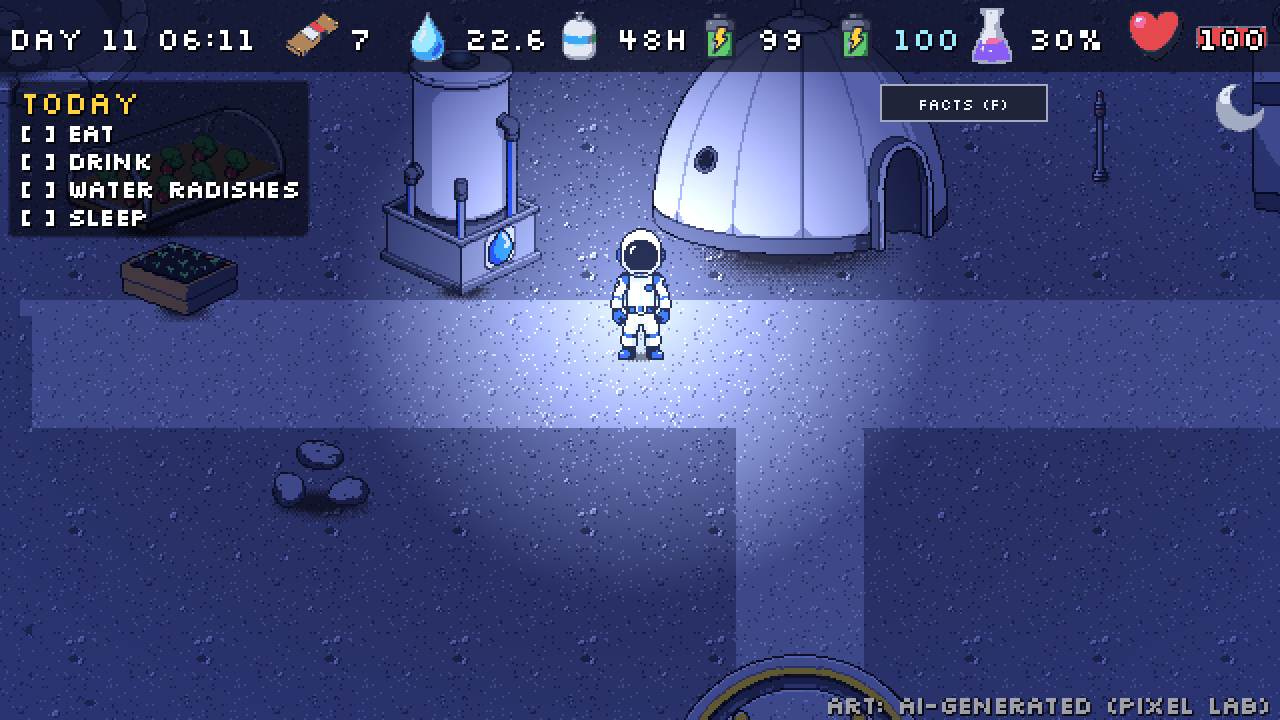
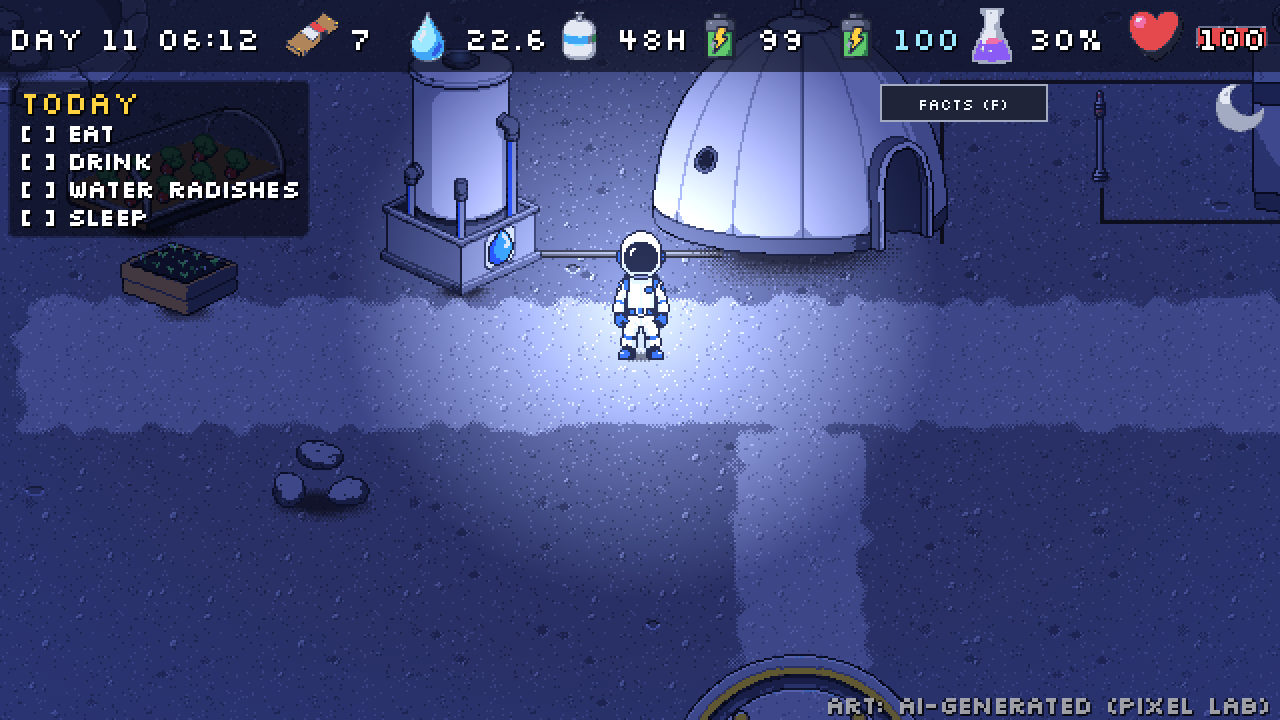
POLISH 3: baked natural ground (noise tiles, dithered paths, pebbles, craters, tracks, cables, pipe), boot prints; sun shadow length capped and shared layer

diff --git a/tools/make_ground.py b/tools/make_ground.py
@@ -1,0 +1,181 @@
+# AI-assisted code (Claude Code), reviewed by the team, NASA Space Apps Cairo 2026
+# Bakes the whole Outpost ground into ONE image: assets_derived/ground_outpost.png (1280x960, 1:1 pixels).
+#   - ground_1..3 mixed by a fixed-seed noise map (no visible tiling), speckle contrast lowered 30%
+#   - packed-regolith paths (path.png) with irregular dithered borders, from the Path* rects in Outpost.tscn
+#   - pebbles, tiny craters, wheel tracks and boot prints near the pad (kept off paths and buildings)
+#   - cables and a pipe: solar field -> charger -> habitat, recycler -> habitat, lab -> antenna
+# polish.gd hides the old ground rectangles and shows this image instead. Never changes assets/.
+# Run:  python tools/make_ground.py   (then godot --headless --path . --import)
+import json, math, os, random, re
+from PIL import Image
+
+ROOT = os.path.dirname(os.path.dirname(os.path.abspath(__file__)))
+W, H = 1280, 960
+SEED = 2026
+CONTRAST = 0.7                  # speckle contrast kept (1.0 = original)
+EXTRA_PATHS = [(950, 200, 1044, 264), (1000, 264, 1044, 440)]   # connector: solar row -> main path (x0, y0, x1, y1)
+BAYER = [0, 8, 2, 10, 12, 4, 14, 6, 3, 11, 1, 9, 15, 7, 13, 5]
+
+
+def load(name):
+    return Image.open(os.path.join(ROOT, "assets/sprites/tiles", name)).convert("RGBA")
+
+
+def soften(im):
+    px = list(im.getdata())
+    n = len(px)
+    mean = [sum(p[i] for p in px) / n for i in range(3)]
+    out = Image.new("RGBA", im.size)
+    out.putdata([tuple(int(mean[i] + (p[i] - mean[i]) * CONTRAST) for i in range(3)) + (255,) for p in px])
+    return out.load()
+
+
+def value_noise(seed, cell):
+    rng = random.Random(seed)
+    gw, gh = W // cell + 2, H // cell + 2
+    g = [[rng.random() for _ in range(gw)] for _ in range(gh)]
+
+    def f(x, y):
+        gx, gy = x / cell, y / cell
+        ix, iy = int(gx), int(gy)
+        tx, ty = gx - ix, gy - iy
+        tx, ty = tx * tx * (3 - 2 * tx), ty * ty * (3 - 2 * ty)
+        a = g[iy][ix] * (1 - tx) + g[iy][ix + 1] * tx
+        b = g[iy + 1][ix] * (1 - tx) + g[iy + 1][ix + 1] * tx
+        return a * (1 - ty) + b * ty
+    return f
+
+
+def scene_info():
+    s = open(os.path.join(ROOT, "scenes/Outpost.tscn"), encoding="utf-8").read()
+    rects = []
+    for m in re.finditer(r'\[node name="(Path\w*)" type="TextureRect" parent="Ground"\]\n(.*?)\n\n', s, re.S):
+        v = {k: float(x) for k, x in re.findall(r'offset_(\w+) = ([-\d.]+)', m.group(2))}
+        rects.append((v["left"], v["top"], v["right"], v["bottom"]))
+    nodes = {}
+    for m in re.finditer(r'\[node name="(\w+)" type="Node2D" parent="World"\]\nposition = Vector2\(([-\d.]+), ([-\d.]+)\)', s):
+        nodes[m.group(1)] = (float(m.group(2)), float(m.group(3)))
+    # sprite texture + offset per node, for "keep details off buildings"
+    blocks = []
+    bases = json.load(open(os.path.join(ROOT, "assets_derived/bases.json")))
+    extids = dict(re.findall(r'path="(res://[^"]+)" id="(\w+)"', s))
+    extids = {v: k for k, v in extids.items()}
+    for m in re.finditer(r'\[node name="Sprite2D" type="Sprite2D" parent="World/(\w+)"\]\ntexture = ExtResource\("(\w+)"\)\ncentered = false\noffset = Vector2\(([-\d.]+), ([-\d.]+)\)', s):
+        nm, tid, ox, oy = m.group(1), m.group(2), float(m.group(3)), float(m.group(4))
+        b = bases.get(extids.get(tid, ""))
+        if nm in nodes and b:
+            x, y = nodes[nm]
+            blocks.append((x + ox + b["bbox_l"] - 6, y + oy + b["top"], x + ox + b["bbox_r"] + 6, y + oy + b["bottom"] + 8))
+    return rects + EXTRA_PATHS, nodes, blocks
+
+
+def main():
+    rects, nodes, blocks = scene_info()
+    tiles = [soften(load(f"ground_{i}.png")) for i in (1, 2, 3)]
+    path = soften(load("path.png"))
+    img = Image.new("RGBA", (W, H))
+    px = img.load()
+    n1, n2 = value_noise(SEED, 96), value_noise(SEED + 1, 40)
+    edge = value_noise(SEED + 2, 9)
+    is_path = [[False] * W for _ in range(H)]
+    for y in range(H):
+        for x in range(W):
+            b = BAYER[(y % 4) * 4 + (x % 4)] / 16.0 - 0.5
+            v = n1(x, y) * 0.7 + n2(x, y) * 0.3 + b * 0.08     # dithered blend between the three ground tiles
+            t = 0 if v < 0.5 else (1 if v < 0.62 else 2)
+            c = tiles[t][x % 64, y % 64]
+            # path: signed distance into the nearest rect vs a noisy border (-5..+4 px), dithered 2 px band
+            d = -99.0
+            for (x0, y0, x1, y1) in rects:
+                if x0 - 8 <= x < x1 + 8 and y0 - 8 <= y < y1 + 8:
+                    d = max(d, min(x - x0, x1 - 1 - x, y - y0, y1 - 1 - y))
+            if d > -8:
+                lim = edge(x, y) * 9.0 - 5.0
+                if d > lim + 1 or (d > lim - 1 and b + 0.5 > 0.5 - (d - lim) * 0.25):
+                    c = path[x % 64, y % 64]
+                    is_path[y][x] = True
+            px[x, y] = c
+    rng = random.Random(SEED)
+
+    def free(x, y, r):
+        if not (70 + r <= x < W - 70 - r and 70 + r <= y < H - 70 - r):
+            return False
+        for (x0, y0, x1, y1) in blocks:
+            if x0 - r <= x <= x1 + r and y0 - r <= y <= y1 + r:
+                return False
+        for dy in (-r - 3, 0, r + 3):
+            for dx in (-r - 3, 0, r + 3):
+                yy, xx = int(y + dy), int(x + dx)
+                if 0 <= yy < H and 0 <= xx < W and is_path[yy][xx]:
+                    return False
+        return True
+
+    def shade(x, y, k):
+        if 0 <= x < W and 0 <= y < H:
+            r, g, b, a = px[x, y]
+            px[x, y] = (max(0, min(255, int(r * k))), max(0, min(255, int(g * k))), max(0, min(255, int(b * k))), 255)
+
+    # pebbles: a dark pixel with a light top pixel (lit from above)
+    for _ in range(170):
+        x, y = rng.randrange(W), rng.randrange(H)
+        if free(x, y, 2):
+            shade(x, y, 0.62)
+            shade(x + 1, y, 0.7)
+            shade(x, y - 1, 1.22)
+    # tiny craters: dark upper rim, light lower rim, 3-5 px radius
+    for _ in range(40):
+        x, y, r = rng.randrange(W), rng.randrange(H), rng.randint(3, 5)
+        if not free(x, y, r + 2):
+            continue
+        for a in range(0, 360, 8):
+            ex, ey = x + round(r * math.cos(math.radians(a))), y + round(r * 0.6 * math.sin(math.radians(a)))
+            shade(ex, ey, 0.72 if ey < y else 1.18)
+        for dy in range(-1, 2):
+            for dx in range(-r + 2, r - 1):
+                shade(x + dx, y + dy, 0.88)
+    # wheel tracks: two dotted parallel curves leaving the pad to the east
+    pad = nodes.get("Pad", (640, 780))
+    for off in (0, 11):
+        for i in range(0, 170, 2):
+            tx = pad[0] + 70 + i
+            ty = pad[1] - 30 + off + int(16 * math.sin(i / 60.0))
+            if free(tx, ty, 0):
+                shade(tx, ty, 0.78)
+                shade(tx + 1, ty, 0.84)
+    # boot prints: a short walk west of the pad (pairs of 2x1 dents)
+    for i in range(9):
+        bx, by = pad[0] - 110 - i * 9, pad[1] - 20 + (3 if i % 2 else -3) + i
+        if free(bx, by, 0):
+            for dx in (0, 1):
+                shade(bx + dx, by, 0.75)
+    # cables (dark 2 px + dotted light top) and a pipe (3 px, grey with a highlight)
+    def seg(points, kind):
+        for (ax, ay), (bx, by) in zip(points, points[1:]):
+            n = int(max(abs(bx - ax), abs(by - ay)))
+            for i in range(n + 1):
+                x = int(ax + (bx - ax) * i / max(n, 1))
+                y = int(ay + (by - ay) * i / max(n, 1))
+                if kind == "cable":
+                    for (dx, dy) in ((0, 0), (1, 0), (0, 1), (1, 1)):
+                        if 0 <= x + dx < W and 0 <= y + dy < H:
+                            px[x + dx, y + dy] = (34, 32, 38, 255)
+                    if i % 3 == 0 and 0 <= y - 1 < H:
+                        px[x, y - 1] = (96, 92, 98, 255) if ay == by else px[x, y - 1]
+                else:
+                    for k, col in ((-1, (58, 60, 68, 255)), (0, (150, 154, 160, 255)), (1, (98, 100, 108, 255)), (2, (40, 40, 48, 255))):
+                        xx, yy = (x, y + k) if ay == by else (x + k, y)
+                        if 0 <= xx < W and 0 <= yy < H:
+                            px[xx, yy] = col
+    g = lambda nm, dx=0, dy=0: (nodes[nm][0] + dx, nodes[nm][1] + dy)
+    if all(k in nodes for k in ("Panel0", "Panel3", "Charger", "Habitat", "Recycler", "Lab", "Antenna")):
+        seg([g("Panel0", 0, 6), g("Charger", 0, 6)], "cable")                          # solar field -> charger
+        seg([g("Charger", 14, 2), (g("Charger")[0] + 14, 330), (g("Habitat")[0] + 70, 330), (g("Habitat")[0] + 70, 410)], "cable")
+        seg([g("Recycler", 30, -24), g("Habitat", -40, -24)], "pipe")                  # recycler -> habitat
+        seg([g("Lab", -40, -40), (g("Antenna")[0], g("Lab")[1] - 40), g("Antenna", 0, -6)], "cable")   # lab -> antenna
+    os.makedirs(os.path.join(ROOT, "assets_derived"), exist_ok=True)
+    img.save(os.path.join(ROOT, "assets_derived/ground_outpost.png"))
+    print("ground_outpost.png written,", len(rects), "path rects,", len(blocks), "sprites kept clear")
+
+
+if __name__ == "__main__":
+    main()

diff --git a/docs/DECISIONS_LOG.md b/docs/DECISIONS_LOG.md
@@ -51,3 +51,4 @@
 - STOP (10:20): the visual polish round (grounding, polar sun shadows, ground, HUD cleanup, light) was stopped by the owner before any of it was applied; the one patch attempt failed in the shell, so the working tree was already clean. Nothing from that round is in the repository. Known bugs and pending work are listed in docs/PROGRESS.md.
 - POLISH 1 (grounding): node origins stay 2-36 px below each sprite's visual base on purpose (footprints reach down to the origin for y-sort), so origins were not moved; contact shadows and dirt patches now use the measured visual base from assets_derived/bases.json (tools/make_derived.py) and sit on the Ground layer under every sprite.
 - POLISH 2 (polar sun): long shadows are the sprites' own textures tinted black in one CanvasGroup (27% alpha, so overlaps never double-darken), skewed by Transform2D along a direction that turns once per 24 game hours (SUN_PHASE in polish.gd to rotate it); no derived silhouette PNGs needed. Hidden on shadow days. Welcome card body shortened so the new line fits (ui_check). Grounding made 25% stronger after review (too faint on camera).
+- POLISH 3 (ground): tools/make_ground.py bakes one 1280x960 ground image (noise-mixed ground_1..3 at 70% speckle contrast, dithered irregular path borders, new path connector from the solar row to the main path at x 1000-1044, pebbles, tiny craters, wheel tracks and boot prints near the pad, cables solar->charger->habitat and lab->antenna, pipe recycler->habitat). polish.gd hides GroundFill/Path*/Patch* and shows it; walls and craters stay. Live boot prints every 10 px fade over 30 s (max 120). Re-run make_ground.py if buildings or paths move in Outpost.tscn.
